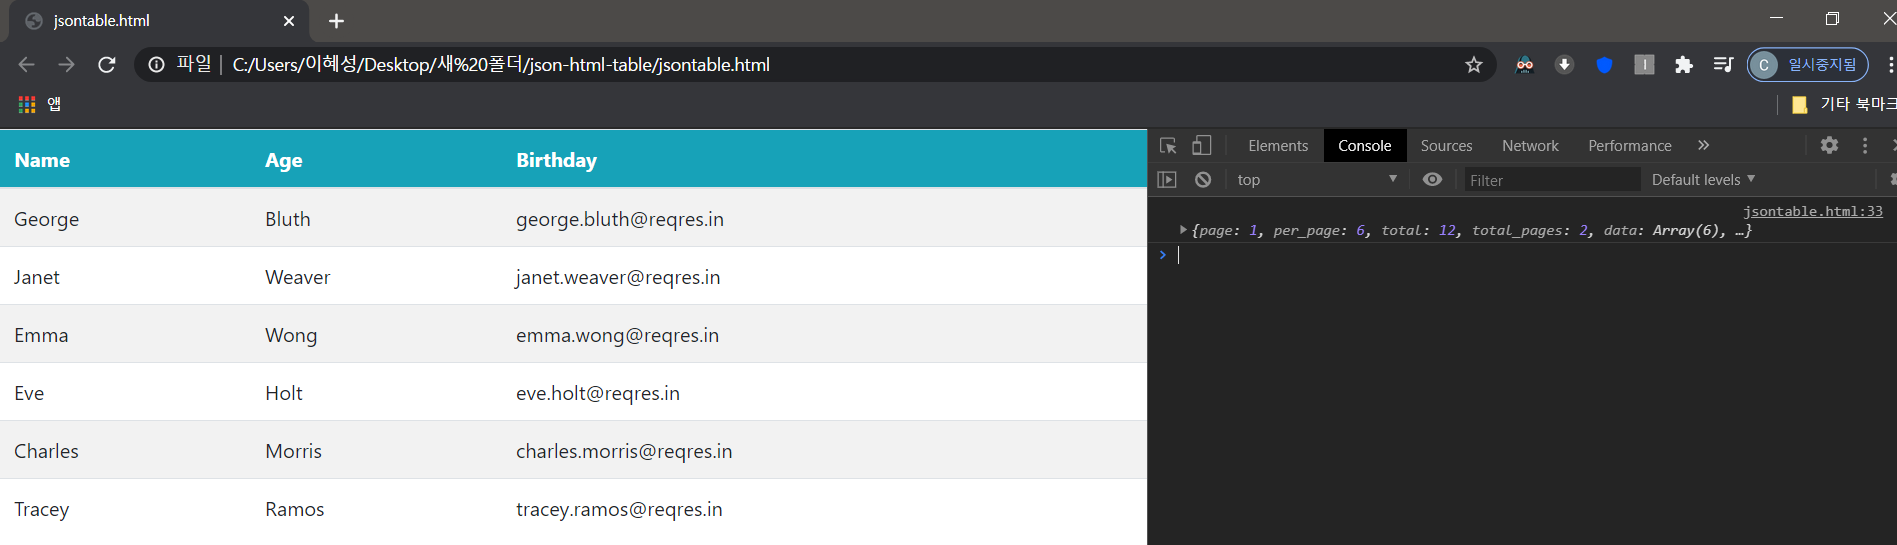
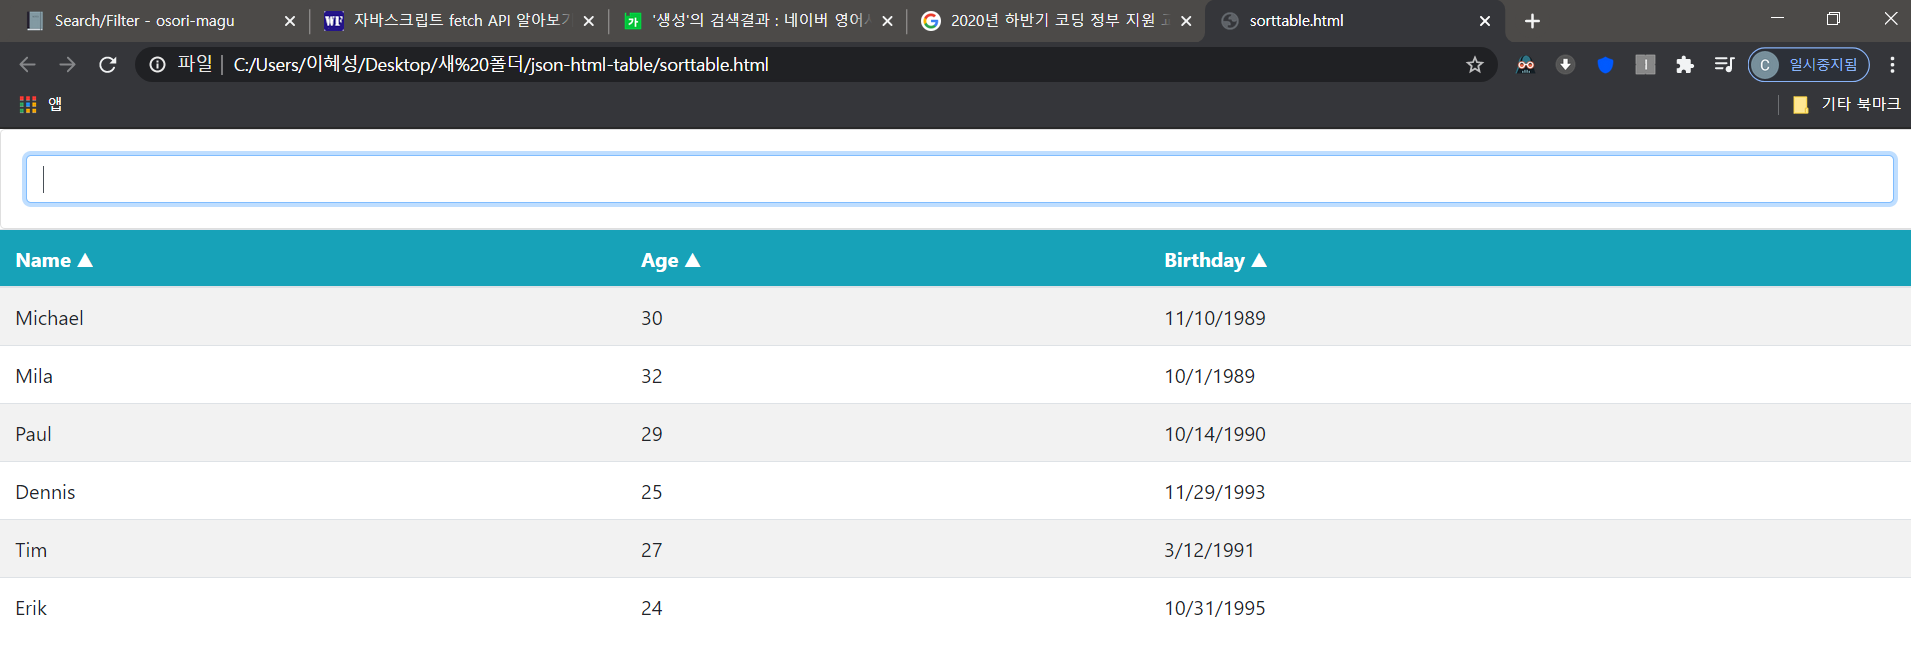
GitBook: [master] 207 pages and 25 assets modified

diff --git a/.gitbook/assets/sorttable.html b/.gitbook/assets/sorttable.html
@@ -1,0 +1,62 @@
+<script src="https://ajax.googleapis.com/ajax/libs/jquery/3.3.1/jquery.min.js"></script>
+<link rel="stylesheet" href="https://stackpath.bootstrapcdn.com/bootstrap/4.3.1/css/bootstrap.min.css" integrity="sha384-ggOyR0iXCbMQv3Xipma34MD+dH/1fQ784/j6cY/iJTQUOhcWr7x9JvoRxT2MZw1T" crossorigin="anonymous">
+
+<style>
+    th{ 
+        cursor: pointer;
+        color:#fff;
+            }
+</style>
+
+<div class="row">
+  <div class="col">
+    <div class="card card-body">
+
+      <input id="search-input" class="form-control" type="text">
+    </div>
+  </div>
+</div>
+
+<table class="table table-striped">
+    <tr  class="bg-info">
+        <th  class="bg-info" data-colname="name" data-order="desc">Name &#9650</th>
+        <th  data-colname="age" data-order="desc">Age &#9650</th>
+        <th  data-colname="birthdate" data-order="desc">Birthday &#9650</th>
+    </tr>
+    <tbody id="myTable">
+        
+    </tbody>
+</table>
+
+
+<script>
+var myArray = [
+    {'name':'Michael', 'age':'30', 'birthdate':'11/10/1989'},
+    {'name':'Mila', 'age':'32', 'birthdate':'10/1/1989'},
+    {'name':'Paul', 'age':'29', 'birthdate':'10/14/1990'},
+    {'name':'Dennis', 'age':'25', 'birthdate':'11/29/1993'},
+    {'name':'Tim', 'age':'27', 'birthdate':'3/12/1991'},
+    {'name':'Erik', 'age':'24', 'birthdate':'10/31/1995'},
+]
+
+
+buildTable(myArray)
+
+    
+function buildTable(data){
+    var table = document.getElementById('myTable')
+
+    table.innerHTML = ''
+    
+    for (var i = 0; i < data.length; i++){
+      
+        var row = `<tr>
+                        <td>${data[i].name}</td>
+                        <td>${data[i].age}</td>
+                        <td>${data[i].birthdate}</td>
+                   </tr>`
+        table.innerHTML += row
+    }
+}
+
+</script>

diff --git a/javascript-and-html/search-and-filter/untitled.md b/javascript-and-html/search-and-filter/untitled.md
@@ -1,14 +1,15 @@
 # Search/Filter
 
-자바스크립트를 이용하여 프론트엔드의 search기능을 구현해보도록 할게요.
-
-11-19번째 소스 코드를 만들었어요. 
-
-![](../../.gitbook/assets/image%20%28342%29.png)
-
+자바스크립트를 이용하여 프론트엔드의 search기능을 구현해보도록 할게요.  
   
+아래 소스 html source code를 베이스로 해서 작성해보도록 할게요.
 
+## 시작 전 소스코드 
 
+{% file src="../../.gitbook/assets/sorttable.html" %}
+
+{% tabs %}
+{% tab title="sorttable.html" %}
 ```text
 <script src="https://ajax.googleapis.com/ajax/libs/jquery/3.3.1/jquery.min.js"></script>
 <link rel="stylesheet" href="https://stackpath.bootstrapcdn.com/bootstrap/4.3.1/css/bootstrap.min.css" integrity="sha384-ggOyR0iXCbMQv3Xipma34MD+dH/1fQ784/j6cY/iJTQUOhcWr7x9JvoRxT2MZw1T" crossorigin="anonymous">
@@ -20,6 +21,14 @@
             }
 </style>
 
+<div class="row">
+  <div class="col">
+    <div class="card card-body">
+
+      <input id="search-input" class="form-control" type="text">
+    </div>
+  </div>
+</div>
 
 <table class="table table-striped">
     <tr  class="bg-info">
@@ -46,42 +55,14 @@ var myArray = [
 
 buildTable(myArray)
 
-
-
- $('th').on('click', function(){
-     var column = $(this).data('colname')
-     var order = $(this).data('order')
-     var text = $(this).html()
-     text = text.substring(0, text.length - 1);
-     
-     
-     
-     if (order == 'desc'){
-        myArray = myArray.sort((a, b) => a[column] > b[column] ? 1 : -1)
-        $(this).data("order","asc");
-        text += '&#9660'
-     }else{
-        myArray = myArray.sort((a, b) => a[column] < b[column] ? 1 : -1)
-        $(this).data("order","desc");
-        text += '&#9650'
-     }
-
-    $(this).html(text)
-    buildTable(myArray)
-    })
-
-
-   
- 
     
 function buildTable(data){
     var table = document.getElementById('myTable')
-    table.innerHTML = ''
-    for (var i = 0; i < data.length; i++){
-        var colname = `name-${i}`
-        var colage = `age-${i}`
-        var colbirth = `birth-${i}`
 
+    table.innerHTML = ''
+    
+    for (var i = 0; i < data.length; i++){
+      
         var row = `<tr>
                         <td>${data[i].name}</td>
                         <td>${data[i].age}</td>
@@ -93,4 +74,46 @@ function buildTable(data){
 
 </script>
 ```
+{% endtab %}
+{% endtabs %}
+
+일단 현재 나온 화면은 아래와 같아요.   
+검색창이 테이블 위에 보이네요.  
+
+
+![](../../.gitbook/assets/image%20%28353%29.png)
+
+### 
+
+### Keyup Event 등록
+
+소스코드 등록 위치는 아래와 같아요 그리고 
+
+![](../../.gitbook/assets/image%20%28350%29.png)
+
+아래와 같이 search-input id에 keyup이벤트를 등록했어요. 
+
+![](../../.gitbook/assets/image%20%28355%29.png)
+
+크롬 개발자도구의 console창을 띄워놓고 검색창에 타이핑을 하는순간 값들이 즉각적으로  console에 출력되는걸 확인 할 수 있어요. **event handler**가 잘 작동되는게 확인되는 부분이군요.
+
+![](../../.gitbook/assets/image%20%28344%29.png)
+
+### 
+
+### 
+
+### searchTable 메소드 
+
+아래 searchTable에 대소문자 구분을 없애도록 할게요. 
+
+![](../../.gitbook/assets/image%20%28357%29.png)
+
+![](../../.gitbook/assets/image%20%28352%29.png)
+
+![](../../.gitbook/assets/image%20%28346%29.png)
+
+위의 빨간 부분이 소문자 구분 없이 바로 즉각적으로 테이블 내의 이름을 매칭시켜서 찾아주게되요.
+
+![](../../.gitbook/assets/image%20%28356%29.png)
 

diff --git a/javascript-and-html/search-and-filter/1st.md b/javascript-and-html/search-and-filter/1st.md
@@ -21,15 +21,15 @@ description: JSON Array to HTML Table with Javascript
 
 **첫째, 우선 아래와 같은 표를 만들거에요.**
 
-![](../../.gitbook/assets/image%20%28347%29.png)
+![](../../.gitbook/assets/image%20%28351%29.png)
 
 둘째,  sorting 기능을 구현해 볼게요.\(name, age, birthday\)
 
-![](../../.gitbook/assets/image%20%28350%29.png)
+![](../../.gitbook/assets/image%20%28359%29.png)
 
 셋째, 검색 기능을 구현해 볼게요. 
 
-![](../../.gitbook/assets/image%20%28344%29.png)
+![](../../.gitbook/assets/image%20%28347%29.png)
 
 넷째, API를 만들어서 URL을 랜더링해서 HTML테이블로 나타나도록 할게요.
 
@@ -39,12 +39,12 @@ description: JSON Array to HTML Table with Javascript
 
 테이블의 컬럼 3개와 약간의 스타일링을 아래와 같이 할거에요. 
 
-![](../../.gitbook/assets/image%20%28355%29.png)
+![](../../.gitbook/assets/image%20%28364%29.png)
 
 가장 첫번째 줄은 jquery리 cdn을 박아 넣을게요.   
 그리고 아래에 Bootstrap을 붙여 넣을게요.
 
-![](../../.gitbook/assets/image%20%28356%29.png)
+![](../../.gitbook/assets/image%20%28365%29.png)
 
 그리고 소스코드가 계속 이어져서 아래 스크린샷의 1번은 css를 이용한거에요.   
 2번째는 html table태그를 이용해서 th태그의 이름을 딱 정해뒀어요.   
@@ -52,7 +52,7 @@ description: JSON Array to HTML Table with Javascript
   
 3번째는 array of object 객체 배열이 나오게되요. 
 
-![](../../.gitbook/assets/image%20%28346%29.png)
+![](../../.gitbook/assets/image%20%28349%29.png)
 
 이제 본격적으로 함수를 만들어 볼건데요. 3번 바로 아래에 작성하면 되요.   
 3번째 줄에 테이블 쿼리문을 작성해볼게요. 

diff --git a/javascript-and-html/search-and-filter/table-sorting.md b/javascript-and-html/search-and-filter/table-sorting.md
@@ -120,38 +120,38 @@ API call과 JSON 응답을 html table에 적용시켜보도록 할게요
 	function buildTable(data){
 ```
 
-![](../../.gitbook/assets/image%20%28352%29.png)
+![](../../.gitbook/assets/image%20%28361%29.png)
 
 분명 우리는 빈 array로 줬는데 값이 들어있는 모습이네요. 다시 수정해 볼게요.
 
 
 
-![](../../.gitbook/assets/image%20%28345%29.png)
+![](../../.gitbook/assets/image%20%28348%29.png)
 
 response뒷부분에 .data를 입력했어요.   
 
 
-![](../../.gitbook/assets/image%20%28354%29.png)
+![](../../.gitbook/assets/image%20%28363%29.png)
 
 안의 데이터 내용을 보니 테이블 구조를 조금 바꿔 줄게요. 
 
-![](../../.gitbook/assets/image%20%28351%29.png)
+![](../../.gitbook/assets/image%20%28360%29.png)
 
 이번엔 ajax메소드 안에서 buildTable 함수를 호출하도록 할텐데요.   
   
 그리고 기존에 작성된 값들 3개 몽땅 바꾸도록 할게요. 
 
-![](../../.gitbook/assets/image%20%28357%29.png)
+![](../../.gitbook/assets/image%20%28366%29.png)
 
 그리고 기존 호출되었던 buildTable함수를 호출했던 소스코드를 삭제할게요.
 
-![](../../.gitbook/assets/image%20%28348%29.png)
+![](../../.gitbook/assets/image%20%28354%29.png)
 
 
 
 그리고 나서 확인해보니 아래와 같이 잘 출력된 걸 확인 할 수 있어요. 
 
-![](../../.gitbook/assets/image%20%28353%29.png)
+![](../../.gitbook/assets/image%20%28362%29.png)
 
 ```text
 <script src="https://ajax.googleapis.com/ajax/libs/jquery/3.3.1/jquery.min.js"></script>
